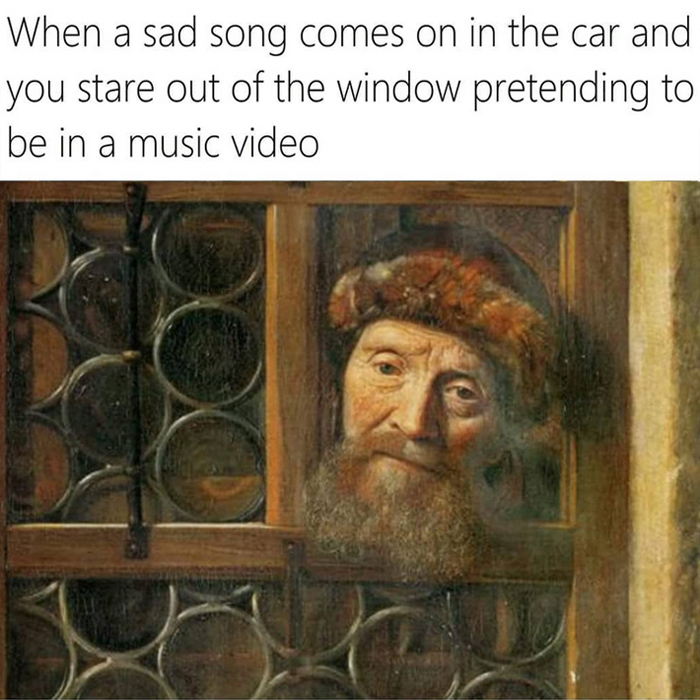
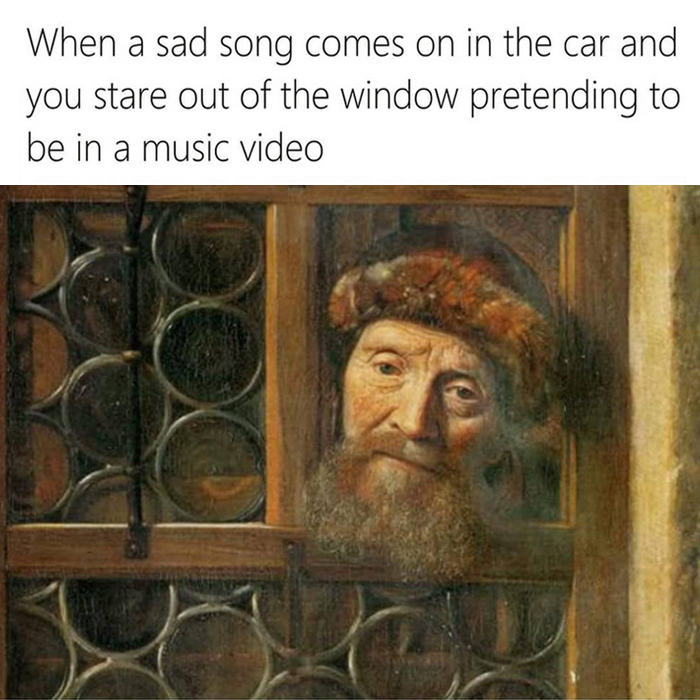
fix: fix images (Sat, Sep 14, 2024 05:41:10 PM)

Changed region(s): [[0.0, 0.03, 1.0, 0.27]]

diff --git a/style.css b/style.css
@@ -54,7 +54,7 @@ body {
 }
 
 .img__wrapper {
-  max-width: 35rem;
+  max-width: 45rem;
 }
 
 .slider__img {
